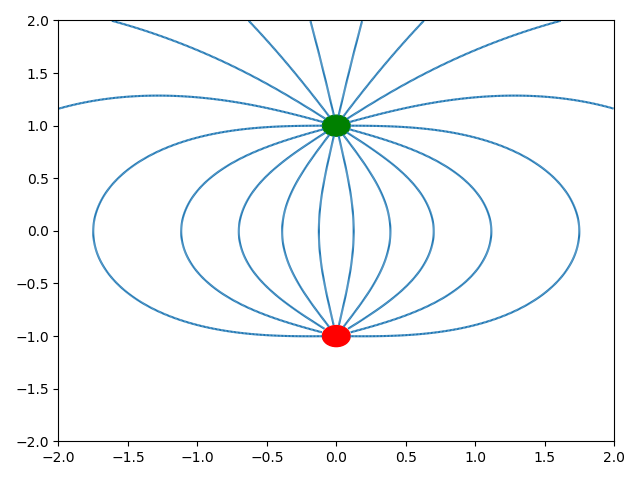
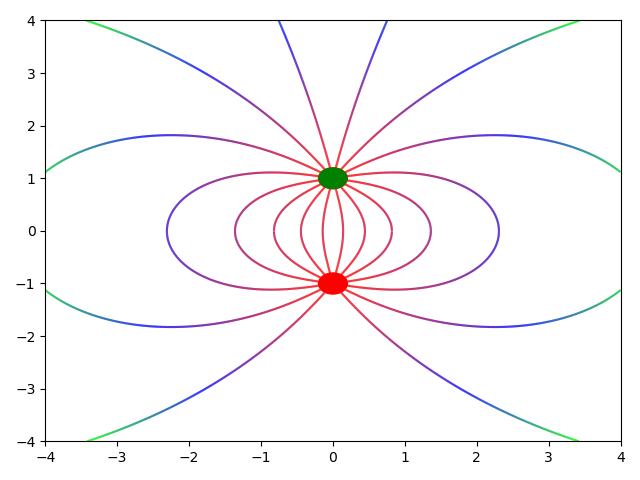
Adjust constants for a nice default

diff --git a/field_lines.py b/field_lines.py
@@ -1,6 +1,6 @@
 from helper import *
 
-STARTING_POINTS_PER_CHARGE = 8 / Q_CONSTANT
+STARTING_POINTS_PER_CHARGE = 16 / Q_CONSTANT
 LINE_SEGMENT_LENGTH = 0.01
 USE_COLORS = True
 K_CONSTANT = 9 * 10 ** 9
@@ -115,7 +115,7 @@ def main(items):
 
 if __name__ == '__main__':
     ITEMS = [
-        Item(True, 3 * Q_CONSTANT, Vector(0, 1)),
+        Item(True, Q_CONSTANT, Vector(0, 1)),
         Item(False, Q_CONSTANT, Vector(0, -1))
     ]
 

diff --git a/helper.py b/helper.py
@@ -4,8 +4,8 @@ import matplotlib.collections as collections
 import sys
 
 Q_CONSTANT = 1.602 * 10 ** (-19)
-MAGNITUDE_TO_RADIUS_FACTOR = 0.1 / Q_CONSTANT
-SIZE_OF_GRAPH = 5
+MAGNITUDE_TO_RADIUS_FACTOR = 0.2 / Q_CONSTANT
+SIZE_OF_GRAPH = 4
 
 
 class Vector:
